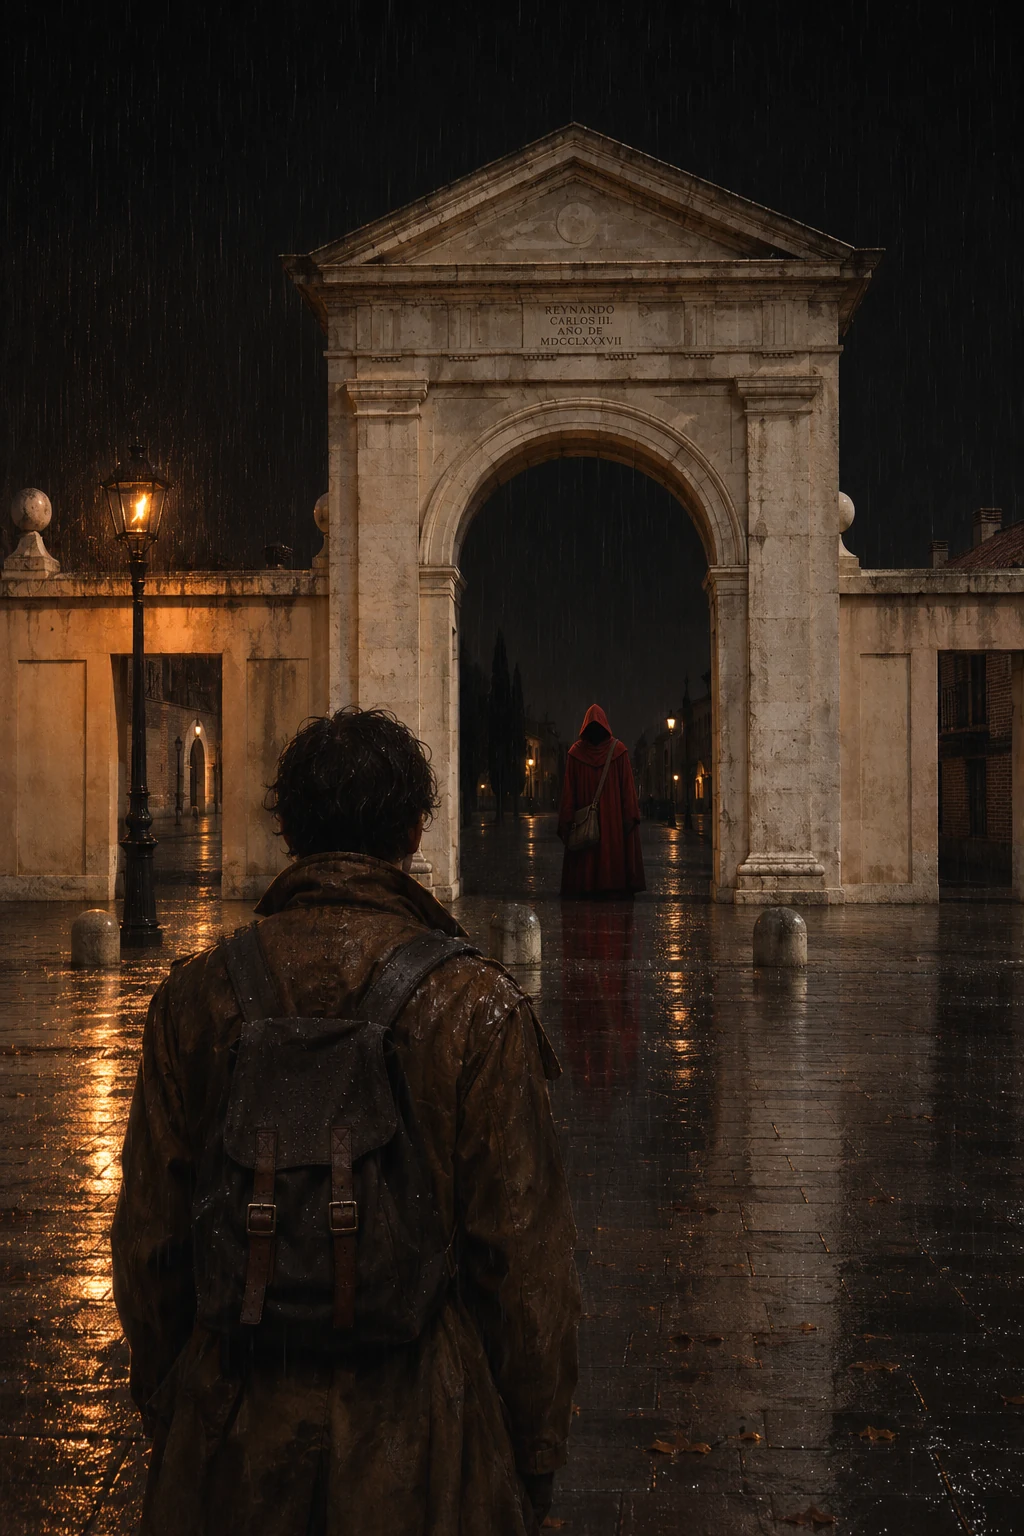
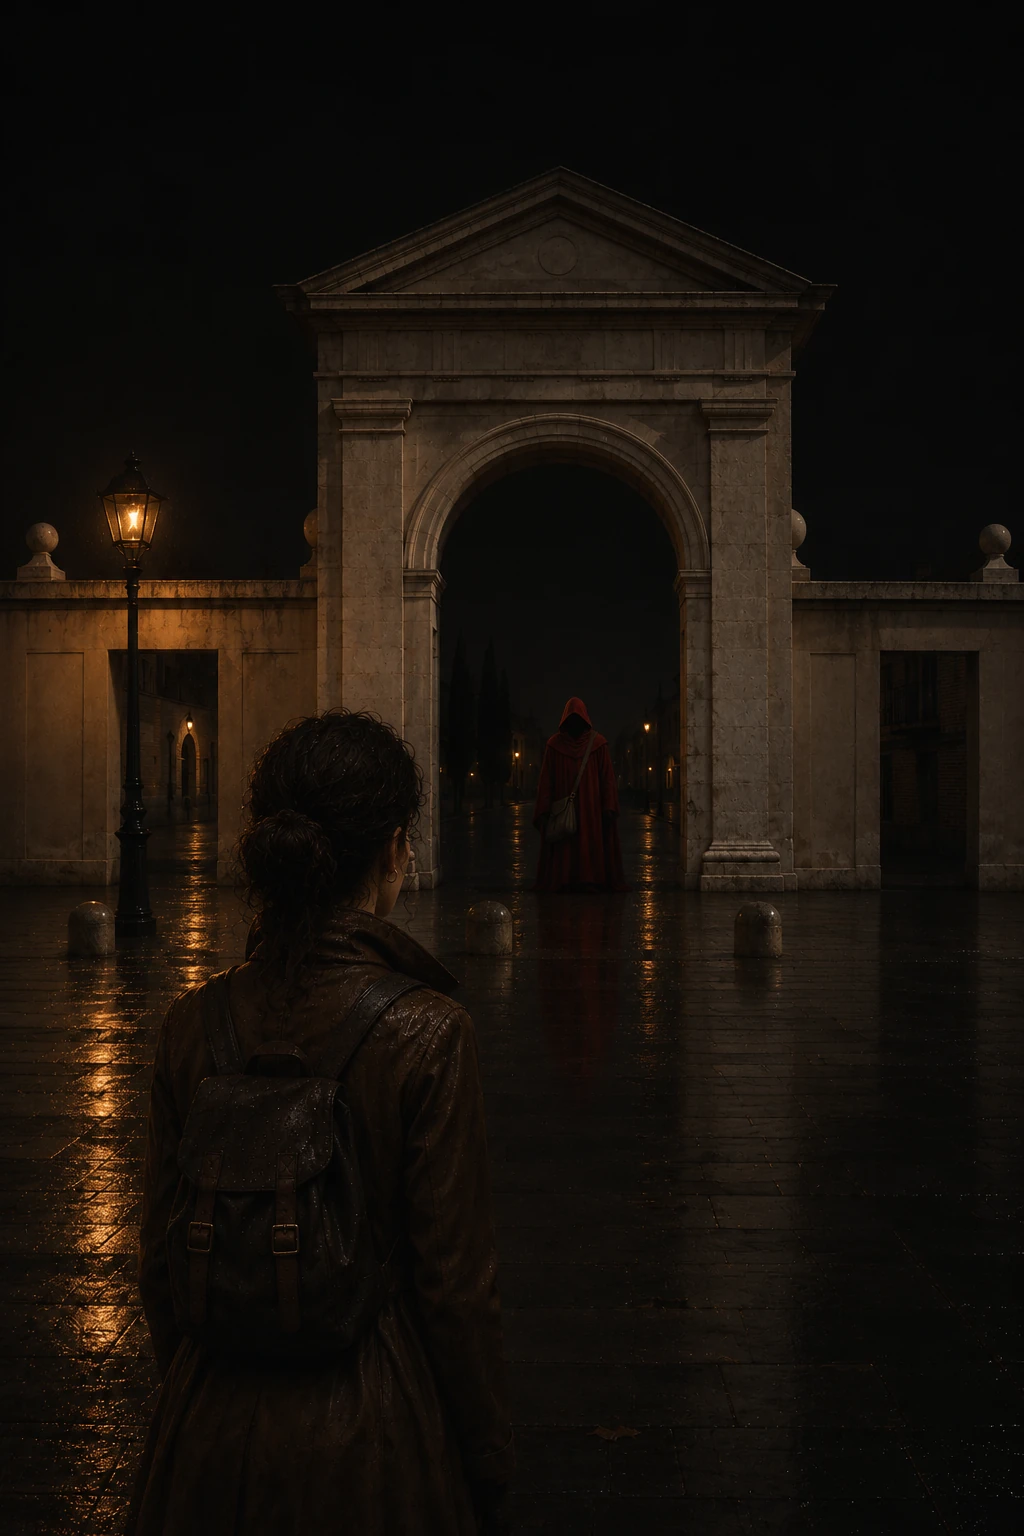
Darken Alcalá scenes and add glass rain interactions

diff --git a/styles.css b/styles.css
@@ -1296,6 +1296,7 @@ body:is(.view-immersive) .cinematic-story .story__hotspots { transition-duration
   .story__image-wrap.is-lamp-failure::before { animation: none; opacity: .16; }
   .story__image-wrap.is-reflection-slip .story__image { animation: none; }
 }
+
 .story__rain {
   position: absolute;
   z-index: 3;
@@ -1370,4 +1371,51 @@ body:is(.view-immersive) .cinematic-story .story__hotspots { transition-duration
   .story__image-wrap.is-disturbed .story__image,
   .story__image-wrap.is-door-touched .story__image,
   .story__image-wrap.is-lamp-failure .story__image { animation: none !important; transform: none; }
+}
+
+/* Nocturnal grade and irregular rain on the viewer's glass. */
+.story__image { filter: brightness(.76) saturate(.92) contrast(1.08); }
+.story__film-grain { opacity: 1; mix-blend-mode: multiply; background: radial-gradient(ellipse at 52% 38%, transparent 22%, rgba(0,0,0,.3) 100%), linear-gradient(0deg, rgba(3,2,2,.52), transparent 78%), linear-gradient(90deg, rgba(3,2,2,.26), transparent 82%); }
+.story__film-grain::after { display: none !important; }
+body .story__rain { position: fixed; z-index: 8; inset: 0; display: block; width: 100vw; height: 100vh; height: 100dvh; overflow: hidden; pointer-events: none; opacity: 0; transition: opacity .6s ease; }
+body.is-raining .story__rain { opacity: .74; }
+body.is-heavy-rain .story__rain { opacity: .9; }
+.story__rain i { display: none !important; }
+
+/* Each object gives a different visual response, without visible buttons or markers. */
+.story__image-wrap[class*="is-reaction-"] .story__image { animation-duration: 1.35s; }
+.story__reaction.is-visible { animation: none; opacity: 0; }
+.story__reaction.is-visible.is-reaction-phone { background: radial-gradient(ellipse at var(--tap-x) var(--tap-y), rgba(177,211,244,.46), rgba(157,191,226,.12) 12%, transparent 34%); animation: phone-pulse 1.7s ease-out both; }
+.story__reaction.is-visible.is-reaction-threat { background: radial-gradient(ellipse at var(--tap-x) var(--tap-y), rgba(195,14,23,.72), rgba(94,0,6,.16) 22%, transparent 48%); mix-blend-mode: screen; animation: threat-breath 2.4s ease-out both; }
+.story__reaction.is-visible.is-reaction-gate { background: radial-gradient(ellipse at var(--tap-x) var(--tap-y), rgba(255,184,108,.34), transparent 46%); animation: gate-dust 1.6s ease-out both; }
+.story__reaction.is-visible.is-reaction-protagonist { background: radial-gradient(ellipse at var(--tap-x) var(--tap-y), rgba(255,242,224,.22), transparent 32%); animation: protagonist-shiver 1.05s ease-out both; }
+.story__reaction.is-visible.is-reaction-friend { background: radial-gradient(ellipse at var(--tap-x) var(--tap-y), rgba(245,174,104,.32), transparent 35%); animation: warm-pulse 1.8s ease-out both; }
+.story__reaction.is-visible.is-reaction-cafe { background: linear-gradient(90deg, rgba(242,153,75,.26), transparent 58%); animation: cafe-spill 2.1s ease-out both; }
+.story__reaction.is-visible.is-reaction-landmark { background: radial-gradient(ellipse at var(--tap-x) var(--tap-y), rgba(205,204,194,.24), transparent 38%); animation: landmark-breathe 2s ease-out both; }
+.story__image-wrap.is-reaction-phone .story__image { animation: phone-jolt 1.35s ease-out both; }
+.story__image-wrap.is-reaction-threat .story__image { animation: threat-draw-near 1.8s cubic-bezier(.2,.7,.2,1) both; }
+.story__image-wrap.is-reaction-gate .story__image { animation: gate-shudder 1.25s ease-out both; }
+.story__image-wrap.is-reaction-protagonist .story__image { animation: protagonist-shiver 1.05s ease-out both; }
+.story__image-wrap.is-reaction-friend .story__image { animation: warm-shift 1.8s ease-out both; }
+.story__image-wrap.is-reaction-cafe .story__image { animation: cafe-shift 2.1s ease-out both; }
+.story__image-wrap.is-reaction-landmark .story__image { animation: landmark-focus 2s ease-out both; }
+@keyframes phone-jolt { 0%,100% { transform:scale(1.015); filter:brightness(.76) saturate(.92) contrast(1.08); } 18%,52% { transform:scale(1.02) translate3d(-.35%,.12%,0); filter:brightness(.82) saturate(.98) contrast(1.08); } 35%,68% { transform:scale(1.018) translate3d(.3%,-.1%,0); } }
+@keyframes phone-pulse { 0% { opacity:0; } 17% { opacity:.8; } 36% { opacity:.22; } 54% { opacity:.58; } 100% { opacity:0; } }
+@keyframes threat-draw-near { 0%,100% { transform:scale(1.015); filter:brightness(.76) saturate(.92) contrast(1.08); } 38% { transform:scale(1.065) translate3d(-.4%,0,0); filter:brightness(.64) saturate(1.04) contrast(1.15); } 63% { transform:scale(1.052) translate3d(.3%,0,0); filter:brightness(.79) saturate(1.08) contrast(1.12); } }
+@keyframes threat-breath { 0%,100% { opacity:0; } 22% { opacity:.72; } 50% { opacity:.08; } 72% { opacity:.44; } }
+@keyframes gate-shudder { 0%,100% { transform:scale(1.015); filter:brightness(.76) saturate(.92) contrast(1.08); } 24% { transform:scale(1.018) translate3d(.32%,0,0); } 35% { transform:scale(1.018) translate3d(-.3%,.12%,0); filter:brightness(.58) saturate(.84) contrast(1.12); } 48% { transform:scale(1.02) translate3d(.16%,0,0); } }
+@keyframes gate-dust { 0% { opacity:0; } 25% { opacity:.48; } 100% { opacity:0; } }
+@keyframes protagonist-shiver { 0%,100% { transform:scale(1.015); } 30% { transform:scale(1.025) translate3d(.18%,0,0); } 45% { transform:scale(1.022) translate3d(-.16%,.08%,0); } }
+@keyframes warm-pulse { 0%,100% { opacity:0; } 28% { opacity:.6; } 60% { opacity:.18; } }
+@keyframes warm-shift { 0%,100% { filter:brightness(.76) saturate(.92) contrast(1.08); } 45% { filter:brightness(.82) saturate(1) contrast(1.04); } }
+@keyframes cafe-spill { 0% { opacity:0; transform:translateX(-8%); } 35% { opacity:.55; } 100% { opacity:0; transform:translateX(5%); } }
+@keyframes cafe-shift { 0%,100% { transform:scale(1.015); filter:brightness(.76) saturate(.92) contrast(1.08); } 50% { transform:scale(1.04) translate3d(.4%,0,0); filter:brightness(.83) saturate(1) contrast(1.04); } }
+@keyframes landmark-breathe { 0%,100% { opacity:0; } 35% { opacity:.5; } }
+@keyframes landmark-focus { 0%,100% { transform:scale(1.015); filter:brightness(.76) saturate(.92) contrast(1.08); } 48% { transform:scale(1.045); filter:brightness(.66) saturate(.86) contrast(1.18); } }
+@keyframes lamp-failure { 0%,100% { filter:brightness(.62) saturate(.74) contrast(1.08); } 12% { filter:brightness(.48) saturate(.7); } 18% { filter:brightness(.18) saturate(.6); } 25% { filter:brightness(.66) saturate(.78); } 41% { filter:brightness(.26) saturate(.65); } 47% { filter:brightness(.14) saturate(.58); } 57% { filter:brightness(.7) saturate(.82); } 72% { filter:brightness(.36) saturate(.68); } 79% { filter:brightness(.62) saturate(.74); } }
+@media (prefers-reduced-motion: reduce) {
+  body.is-raining .story__rain { opacity:.48; }
+  body.is-heavy-rain .story__rain { opacity:.62; }
+  .story__image-wrap[class*="is-reaction-"] .story__image { animation:none; }
+  .story__reaction.is-visible { animation:none !important; opacity:.16; }
 }

diff --git a/script.js b/script.js
@@ -123,7 +123,7 @@ const scenes = [
     ]
   },
   {
-    image: () => decisions.includes('go-cafe') ? 'assets/story/alcala-cafe.webp?v=alcala-cafe-20261124' : 'assets/story/alcala-portal.webp?v=alcala-puerta-20261124',
+    image: () => decisions.includes('go-cafe') ? 'assets/story/alcala-cafe.webp?v=alcala-cafe-20261124' : 'assets/story/alcala-portal.webp?v=alcala-puerta-female-night-20261124',
     ambience: () => decisions.includes('go-cafe') ? 'cafe' : 'street',
     place: () => localized(decisions.includes('go-cafe') ? 'PLAZA DE CERVANTES \u00b7 CAF\u00c9' : 'PASEO CARDENAL SANDOVAL Y ROJAS \u00b7 PUERTA DE MADRID', decisions.includes('go-cafe') ? 'PLAZA DE CERVANTES \u00b7 CAF\u00c9' : 'PASEO CARDENAL SANDOVAL Y ROJAS \u00b7 PUERTA DE MADRID'),
     kicker: () => localized(decisions.includes('go-cafe') ? 'PLAZA DE CERVANTES \u00b7 23:38' : 'PUERTA DE MADRID \u00b7 23:41', decisions.includes('go-cafe') ? 'PLAZA DE CERVANTES \u00b7 11:38 P.M.' : 'PUERTA DE MADRID \u00b7 11:41 P.M.'),
@@ -448,8 +448,8 @@ function clearSceneInterruption() {
   sceneInterruption.replaceChildren();
   story.classList.remove('is-raining');
   story.classList.remove('is-heavy-rain');
-  sceneImageWrap.classList.remove('is-camera-flash', 'is-lamp-failure', 'is-reflection-slip', 'is-object-reaction');
-  sceneReaction.classList.remove('is-visible');
+  sceneImageWrap.classList.remove('is-camera-flash', 'is-lamp-failure', 'is-reflection-slip', 'is-object-reaction', 'is-reaction-phone', 'is-reaction-threat', 'is-reaction-gate', 'is-reaction-protagonist', 'is-reaction-friend', 'is-reaction-cafe', 'is-reaction-landmark');
+  sceneReaction.classList.remove('is-visible', 'is-reaction-phone', 'is-reaction-threat', 'is-reaction-gate', 'is-reaction-protagonist', 'is-reaction-friend', 'is-reaction-cafe', 'is-reaction-landmark');
 }
 
 function triggerPhotoReaction(button, hotspot) {
@@ -457,24 +457,18 @@ function triggerPhotoReaction(button, hotspot) {
   const target = button.getBoundingClientRect();
   const x = Math.max(0, Math.min(100, ((target.left + target.width / 2 - stage.left) / stage.width) * 100));
   const y = Math.max(0, Math.min(100, ((target.top + target.height / 2 - stage.top) / stage.height) * 100));
-  const glow = hotspot.id === 'phone'
-    ? 'rgba(190, 222, 255, .7)'
-    : ['cafe', 'friend', 'landmark'].includes(hotspot.id)
-      ? 'rgba(255, 193, 118, .65)'
-      : hotspot.id === 'cartographer'
-        ? 'rgba(227, 33, 39, .7)'
-        : 'rgba(244, 226, 207, .55)';
-
+  const reactionClasses = ['is-reaction-phone', 'is-reaction-threat', 'is-reaction-gate', 'is-reaction-protagonist', 'is-reaction-friend', 'is-reaction-cafe', 'is-reaction-landmark'];
+  const reactionClass = `is-reaction-${hotspot.id === 'cartographer' ? 'threat' : hotspot.id}`;
   sceneImageWrap.style.setProperty('--tap-x', `${x}%`);
   sceneImageWrap.style.setProperty('--tap-y', `${y}%`);
-  sceneReaction.style.setProperty('--tap-glow', glow);
-  sceneImageWrap.classList.remove('is-object-reaction');
-  sceneReaction.classList.remove('is-visible');
+  sceneReaction.style.setProperty('--tap-x', `${x}%`);
+  sceneReaction.style.setProperty('--tap-y', `${y}%`);
+  sceneImageWrap.classList.remove(...reactionClasses);
+  sceneReaction.classList.remove('is-visible', ...reactionClasses);
   void sceneImageWrap.offsetWidth;
-  sceneImageWrap.classList.add('is-object-reaction');
-  sceneReaction.classList.add('is-visible');
+  sceneImageWrap.classList.add(reactionClass);
+  sceneReaction.classList.add(reactionClass, 'is-visible');
 }
-
 function showLampFailure() {
   window.clearTimeout(sceneInterruptionEffectTimer);
   sceneImageWrap.style.setProperty('--lamp-x', currentScene === 3 && !decisions.includes('go-cafe') ? '15%' : '79%');
@@ -596,8 +590,8 @@ function renderScene(index, { languageRefresh = false } = {}) {
   sceneBody.textContent = sceneValue(scene.body);
   sceneClue.hidden = true;
   sceneClue.textContent = '';
-  sceneImageWrap.classList.remove('is-disturbed', 'is-door-touched', 'is-camera-flash', 'is-lamp-failure', 'is-reflection-slip', 'is-object-reaction');
-  sceneReaction.classList.remove('is-visible');
+  sceneImageWrap.classList.remove('is-disturbed', 'is-door-touched', 'is-camera-flash', 'is-lamp-failure', 'is-reflection-slip', 'is-object-reaction', 'is-reaction-phone', 'is-reaction-threat', 'is-reaction-gate', 'is-reaction-protagonist', 'is-reaction-friend', 'is-reaction-cafe', 'is-reaction-landmark');
+  sceneReaction.classList.remove('is-visible', 'is-reaction-phone', 'is-reaction-threat', 'is-reaction-gate', 'is-reaction-protagonist', 'is-reaction-friend', 'is-reaction-cafe', 'is-reaction-landmark');
   sceneHotspots.classList.remove('is-disturbed', 'is-door-touched');
   sceneHotspots.innerHTML = hotspots.map((hotspot) => `
     <button class="story__hotspot story__hotspot--${hotspot.id}" type="button" data-hotspot="${hotspot.id}" aria-pressed="false" style="left:${hotspot.x}%;top:${hotspot.y}%" aria-controls="scene-clue" aria-label="${t('sceneA11y')}${sceneValue(hotspot.label)}"></button>`).join('');
@@ -640,7 +634,7 @@ function renderEnding({ languageRefresh = false } = {}) {
   textLayoutController = undefined;
   const endedInCafe = ['share-private', 'post-cafe', 'return-light'].includes(lastDecision);
   const choseSupport = ['share-private', 'return-light'].includes(lastDecision);
-  const finalImage = endedInCafe ? 'assets/story/alcala-cafe.webp?v=alcala-cafe-20261124' : 'assets/story/alcala-portal.webp?v=alcala-puerta-20261124';
+  const finalImage = endedInCafe ? 'assets/story/alcala-cafe.webp?v=alcala-cafe-20261124' : 'assets/story/alcala-portal.webp?v=alcala-puerta-female-night-20261124';
   if (!languageRefresh) setAmbientTrack(endedInCafe ? 'cafe' : 'street');
   endingBackdrop.style.backgroundImage = `url("${finalImage}")`;
   endingKicker.textContent = localized(endedInCafe ? 'PLAZA DE CERVANTES \u00b7 CAF\u00c9 \u00b7 23:48' : 'PUERTA DE MADRID \u00b7 23:48', endedInCafe ? 'PLAZA DE CERVANTES \u00b7 CAF\u00c9 \u00b7 11:48 P.M.' : 'PUERTA DE MADRID \u00b7 11:48 P.M.');

diff --git a/rain.js b/rain.js
@@ -1,0 +1,172 @@
+(() => {
+  const story = document.querySelector('.story');
+  const canvas = document.querySelector('#rain-canvas');
+  const context = canvas?.getContext('2d', { alpha: true });
+  if (!story || !canvas || !context) return;
+
+  // Keep the glass effect viewport-sized even while the story uses 3D transforms.
+  document.body.append(canvas);
+
+  const reduceMotion = window.matchMedia('(prefers-reduced-motion: reduce)');
+  let width = 0;
+  let height = 0;
+  let pixelRatio = 1;
+  let streaks = [];
+  let drops = [];
+  let raf = 0;
+  let active = false;
+  let lastTime = 0;
+
+  const random = (min, max) => min + Math.random() * (max - min);
+
+  function seedRain() {
+    const density = Math.max(38, Math.min(82, Math.round(width / 11)));
+    streaks = Array.from({ length: density }, () => ({
+      x: random(-40, width + 40),
+      y: random(-height, height),
+      length: random(8, 28),
+      speed: random(2.1, 5.8),
+      drift: random(-1.15, -.35),
+      alpha: random(.035, .12),
+      line: random(.45, 1.15)
+    }));
+
+    const count = Math.max(15, Math.min(28, Math.round(width / 24)));
+    drops = Array.from({ length: count }, () => ({
+      x: random(0, width),
+      y: random(0, height),
+      radius: random(1.5, 5.5),
+      speed: random(.04, .32),
+      slide: random(-.08, .08),
+      alpha: random(.045, .14),
+      phase: random(0, Math.PI * 2),
+      trail: random(5, 18)
+    }));
+  }
+
+  function resize() {
+    width = window.innerWidth;
+    height = window.innerHeight;
+    pixelRatio = Math.min(window.devicePixelRatio || 1, 1.25);
+    canvas.width = Math.round(width * pixelRatio);
+    canvas.height = Math.round(height * pixelRatio);
+    canvas.style.width = `${width}px`;
+    canvas.style.height = `${height}px`;
+    context.setTransform(pixelRatio, 0, 0, pixelRatio, 0, 0);
+    seedRain();
+    if (reduceMotion.matches) draw(0, false);
+  }
+
+  function paintGlassDrop(drop, time, move) {
+    const sway = Math.sin(time * .00055 + drop.phase) * drop.radius * .22;
+    if (move) {
+      drop.y += drop.speed;
+      drop.x += drop.slide + sway * .008;
+      if (drop.y - drop.radius > height) {
+        drop.y = -drop.radius * 2;
+        drop.x = random(0, width);
+      }
+    }
+    const x = drop.x + sway;
+    const r = drop.radius;
+    const gradient = context.createRadialGradient(x - r * .34, drop.y - r * .4, .2, x, drop.y, r * 1.35);
+    gradient.addColorStop(0, `rgba(226,239,245,${drop.alpha * .8})`);
+    gradient.addColorStop(.45, `rgba(127,157,171,${drop.alpha * .35})`);
+    gradient.addColorStop(1, 'rgba(4,8,12,0)');
+    context.fillStyle = gradient;
+    context.beginPath();
+    context.ellipse(x, drop.y, r * .74, r * 1.18, -.12, 0, Math.PI * 2);
+    context.fill();
+    context.strokeStyle = `rgba(226,239,245,${drop.alpha * .72})`;
+    context.lineWidth = .45;
+    context.beginPath();
+    context.arc(x - r * .14, drop.y - r * .12, r * .7, Math.PI * 1.1, Math.PI * 1.78);
+    context.stroke();
+    if (r > 3.4) {
+      context.strokeStyle = `rgba(188,215,227,${drop.alpha * .36})`;
+      context.beginPath();
+      context.moveTo(x, drop.y + r * .9);
+      context.quadraticCurveTo(x + sway * .08, drop.y + drop.trail * .5, x + sway * .12, drop.y + drop.trail);
+      context.stroke();
+    }
+  }
+
+  function draw(time, move) {
+    context.clearRect(0, 0, width, height);
+    const heavy = story.classList.contains('is-heavy-rain');
+    streaks.forEach((streak) => {
+      if (move) {
+        streak.y += streak.speed * (heavy ? 1.35 : 1);
+        streak.x += streak.drift * (heavy ? 1.25 : 1);
+        if (streak.y - streak.length > height) {
+          streak.y = random(-150, -20);
+          streak.x = random(-30, width + 30);
+        }
+      }
+      context.strokeStyle = `rgba(206,222,230,${streak.alpha * (heavy ? 1.2 : 1)})`;
+      context.lineWidth = streak.line;
+      context.beginPath();
+      context.moveTo(streak.x, streak.y);
+      context.lineTo(streak.x + streak.drift * 1.3, streak.y + streak.length * (heavy ? 1.3 : 1));
+      context.stroke();
+    });
+    drops.forEach((drop) => paintGlassDrop(drop, time, move));
+  }
+
+  function animate(time) {
+    if (!active || document.hidden || reduceMotion.matches) return;
+    if (!lastTime || time - lastTime > 18) {
+      draw(time, true);
+      lastTime = time;
+    }
+    raf = requestAnimationFrame(animate);
+  }
+
+  function start() {
+    active = true;
+    document.body.classList.add('is-raining');
+    document.body.classList.toggle('is-heavy-rain', story.classList.contains('is-heavy-rain'));
+    if (reduceMotion.matches) {
+      cancelAnimationFrame(raf);
+      draw(0, false);
+      return;
+    }
+    if (!raf && !document.hidden) raf = requestAnimationFrame(animate);
+  }
+
+  function stop() {
+    active = false;
+    document.body.classList.remove('is-raining', 'is-heavy-rain');
+    cancelAnimationFrame(raf);
+    raf = 0;
+    context.clearRect(0, 0, width, height);
+  }
+
+  const observer = new MutationObserver(() => {
+    if (story.hidden) stop();
+    else {
+      document.body.classList.toggle('is-heavy-rain', story.classList.contains('is-heavy-rain'));
+      start();
+    }
+  });
+  observer.observe(story, { attributes: true, attributeFilter: ['hidden', 'class'] });
+  window.addEventListener('resize', resize, { passive: true });
+  document.addEventListener('visibilitychange', () => {
+    if (document.hidden) {
+      cancelAnimationFrame(raf);
+      raf = 0;
+    } else if (active && !reduceMotion.matches) {
+      raf = requestAnimationFrame(animate);
+    }
+  });
+  reduceMotion.addEventListener?.('change', () => {
+    cancelAnimationFrame(raf);
+    raf = 0;
+    if (active) start();
+  });
+  window.addEventListener('story:ending', stop);
+  window.addEventListener('story:reset', stop);
+
+  resize();
+  if (!story.hidden) start();
+})();

diff --git a/index.html b/index.html
@@ -24,8 +24,8 @@
   <meta name="twitter:image" content="https://cataplum1414.github.io/tu-sombra-digital/assets/story/cartografo-horizontal.webp">
   <meta name="twitter:image:alt" content="El Cartógrafo, encapuchado, observa bajo la lluvia una calle nocturna de Alcalá.">
   <link rel="icon" type="image/svg+xml" href="favicon.svg">
-  <link rel="stylesheet" href="styles.css?v=alcala-light-flicker-20261124">
-  <script type="module" src="script.js?v=interactive-tap-reactions-20261124"></script>
+  <link rel="stylesheet" href="styles.css?v=dark-glass-rain-20261124">
+  <script type="module" src="script.js?v=object-reactions-dark-night-20261124"></script>
   <script src="visit-counter.js?v=counter-20261123" defer></script>
   <script type="module" src="motion.js?v=alcala-audio-adaptativo-20261123"></script>
 </head>
@@ -84,7 +84,7 @@
       <div class="story__image-wrap" id="scene-image-wrap" aria-hidden="true">
         <img class="story__image" id="scene-image" src="assets/story/alcala-night.webp" alt="" fetchpriority="high">
         <div class="story__film-grain"></div>
-        <div class="story__rain" aria-hidden="true"><i></i><i></i><i></i></div>
+        <canvas class="story__rain" id="rain-canvas" aria-hidden="true"></canvas>
         <div class="story__reaction" id="scene-reaction" aria-hidden="true"></div>
       </div>
       <div class="story__topline"><span id="scene-place">CALLE MAYOR · CASA NATAL DE CERVANTES</span><span id="progress-number">ESCENA 1 DE 4</span></div>
@@ -176,6 +176,7 @@
   </div>
 
   <footer class="footer"><span data-i18n="footerProject">Proyecto para el Máster en Protección Internacional de los Derechos Humanos</span><span data-i18n="footerPrivacy">No guardamos tus decisiones ni tu ubicación.</span><span><span data-i18n="footerSound">Sonido:</span> <a href="assets/audio/FUENTES.md" data-i18n="soundCredits">Mixkit · fuentes y licencia</a></span></footer>
+  <script src="rain.js?v=glass-rain-20261124" defer></script>
 </body>
 </html>
 

diff --git a/CREDITOS.md b/CREDITOS.md
@@ -29,6 +29,7 @@ Se adaptaron ideas generales de interacción y ritmo narrativo. No se copiaron c
 | [Codrops Cinematic Scroll Animations](https://github.com/JosephASG/codrops-cinematic-scroll-animations) · MIT | Referencia de ritmo de cámara, escala y composición. No se usan las imágenes de demostración ni los recursos del tutorial. |
 | [smirk-dev/backrooms](https://github.com/smirk-dev/backrooms) | Referencia para usar espacio vacío y silencio como tensión antes del golpe en la puerta; no se copia su código. |
 | [LuminoDevelopment/3DHorror](https://github.com/LuminoDevelopment/3DHorror) · MIT | Referencia de impacto visual y sonoro. Su recorrido con teclado y perspectiva en primera persona no es adecuado para este QR móvil, así que no se integra como motor. |
+| [Rain-and-Lightning](https://github.com/DreAdeDcoRpSE/Rain-and-Lightning) y [raindrop-fx](https://github.com/SardineFish/raindrop-fx) | Referencias visuales para diferenciar lluvia en movimiento y gotas adheridas al cristal. El efecto de esta web está escrito para el proyecto, sin copiar el código de esos repositorios. |
 
 ## Bibliotecas
 
